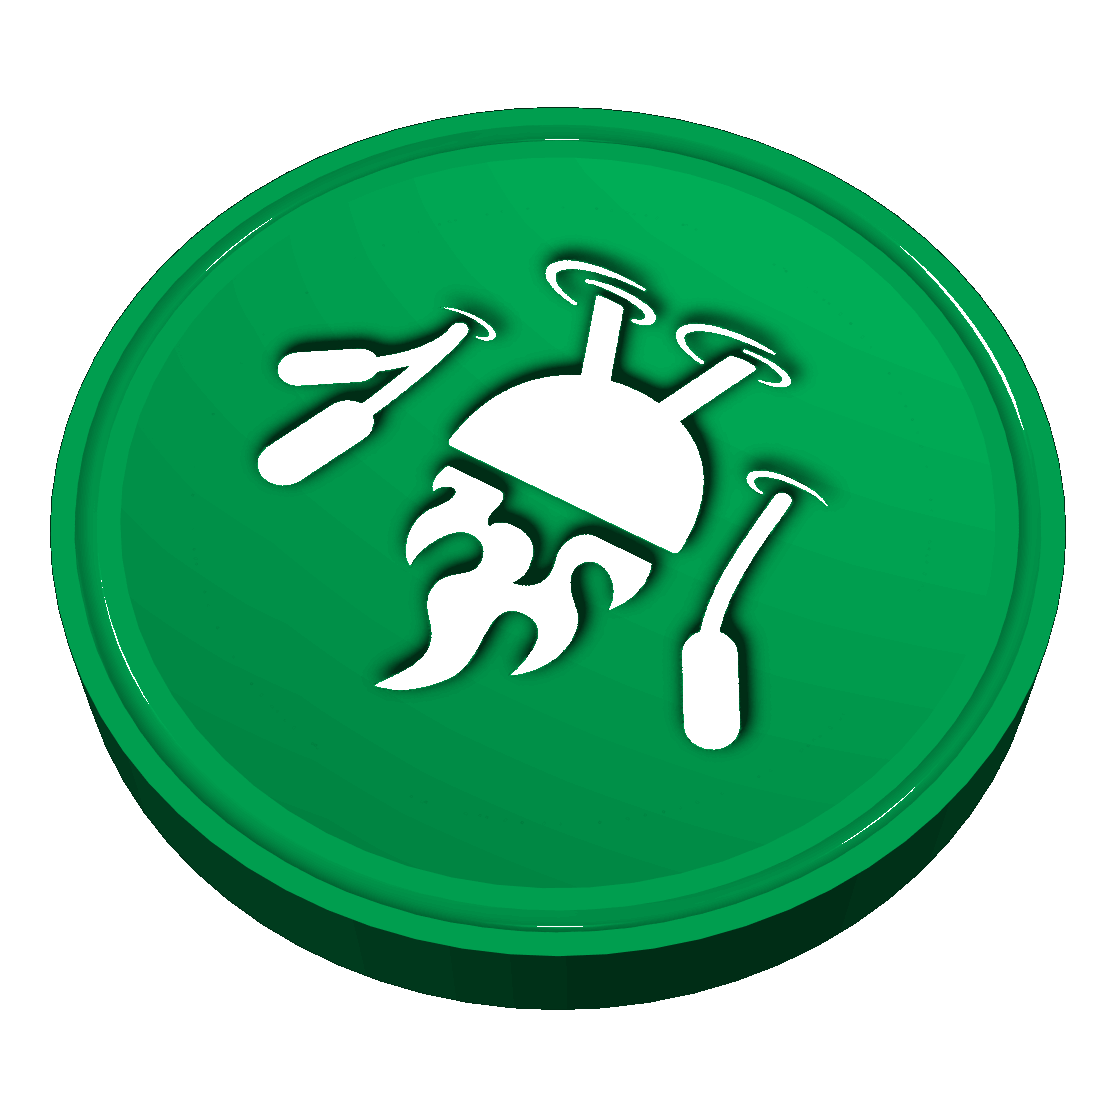
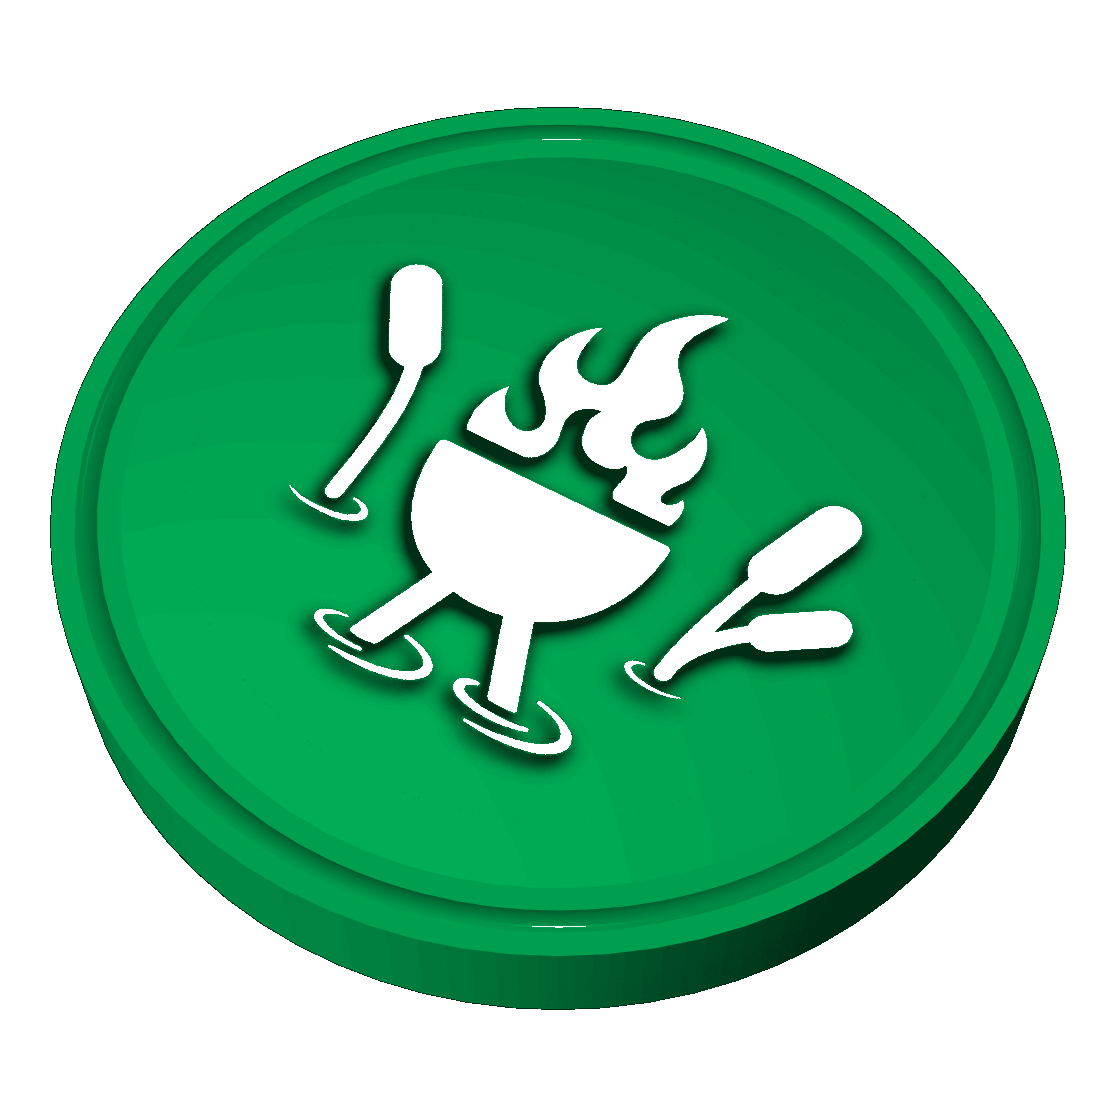
Wingstop chips: fix upside-down glyphs (re-render yaw 180, right-side-up); rotate on Y axis (3D coin pivot) instead of flat Z-spin on scroll

Changed region(s): [[0.0609, 0.0913, 0.9436, 0.9132], [0.0913, 0.3348, 0.1218, 0.3957]]

diff --git a/components/blocks/wingstop/BrandingSection.tsx b/components/blocks/wingstop/BrandingSection.tsx
@@ -64,10 +64,11 @@ export function BrandingSection() {
 }
 
 /** The chips now render FRONT-FACING (rendered upright in SD Studio), so on
- *  scroll we just rotate them slightly left/right — a gentle, alternating in-plane
- *  tilt — rather than re-posing them. Per-chip baseline rotation (deg) gives the
- *  resting set a touch of life; the scroll drift swings around it. */
-const CHIP_BASE_ROT = [-5, 4, -3, 5, -4, 3]
+ *  scroll the coins gently PIVOT in 3D around the vertical (Y) axis — like a coin
+ *  turning toward/away from you — rather than spinning flat in-plane. Per-chip
+ *  baseline Y-rotation (deg) gives the resting set a touch of life; the scroll
+ *  drift swings around it. */
+const CHIP_BASE_ROT = [-10, 8, -6, 9, -8, 7]
 
 function Chip({ chip, index }: { chip: { src: string; name: string; color: string }; index: number }) {
   const ref = useRef<HTMLDivElement>(null)
@@ -89,9 +90,9 @@ function Chip({ chip, index }: { chip: { src: string; name: string; color: strin
       const vh = window.innerHeight
       // center-relative progress: -1 (below) → 0 (centered) → 1 (above)
       const c = (r.top + r.height / 2 - vh / 2) / (vh / 2)
-      // gentle in-plane rotation; alternate direction per chip so adjacent coins
-      // rock opposite ways as the section scrolls past.
-      setDrift(Math.max(-9, Math.min(9, c * 8 * (index % 2 ? -1 : 1))))
+      // gentle 3D Y-axis pivot; alternate direction per chip so adjacent coins
+      // turn opposite ways as the section scrolls past.
+      setDrift(Math.max(-16, Math.min(16, c * 14 * (index % 2 ? -1 : 1))))
     }
     const schedule = () => {
       if (!raf) raf = requestAnimationFrame(onScroll)
@@ -108,9 +109,10 @@ function Chip({ chip, index }: { chip: { src: string; name: string; color: strin
 
   return (
     <div className="flex flex-col items-center">
-      {/* Front-facing 3D coin renders: a subtle scroll-linked in-plane rotation
-          (base tilt + drift), kept gentle so the glyph stays readable. */}
-      <div ref={ref} className="relative grid aspect-square w-full place-items-center will-change-transform">
+      {/* Front-facing 3D coin renders: a subtle scroll-linked 3D pivot around the
+          vertical (Y) axis — the coin turns toward/away — kept gentle so the glyph
+          stays readable. preserve-3d so the rotateY renders with real depth. */}
+      <div ref={ref} className="relative grid aspect-square w-full place-items-center [perspective:900px] will-change-transform">
         {/* eslint-disable-next-line @next/next/no-img-element */}
         <img
           src={chip.src}
@@ -118,7 +120,8 @@ function Chip({ chip, index }: { chip: { src: string; name: string; color: strin
           loading="lazy"
           className="h-[88%] w-[88%] object-contain"
           style={{
-            transform: `rotate(${base + drift}deg)`,
+            transform: `rotateY(${base + drift}deg)`,
+            transformStyle: 'preserve-3d',
             filter: 'drop-shadow(0 18px 26px rgba(0,0,0,0.5))',
           }}
         />
